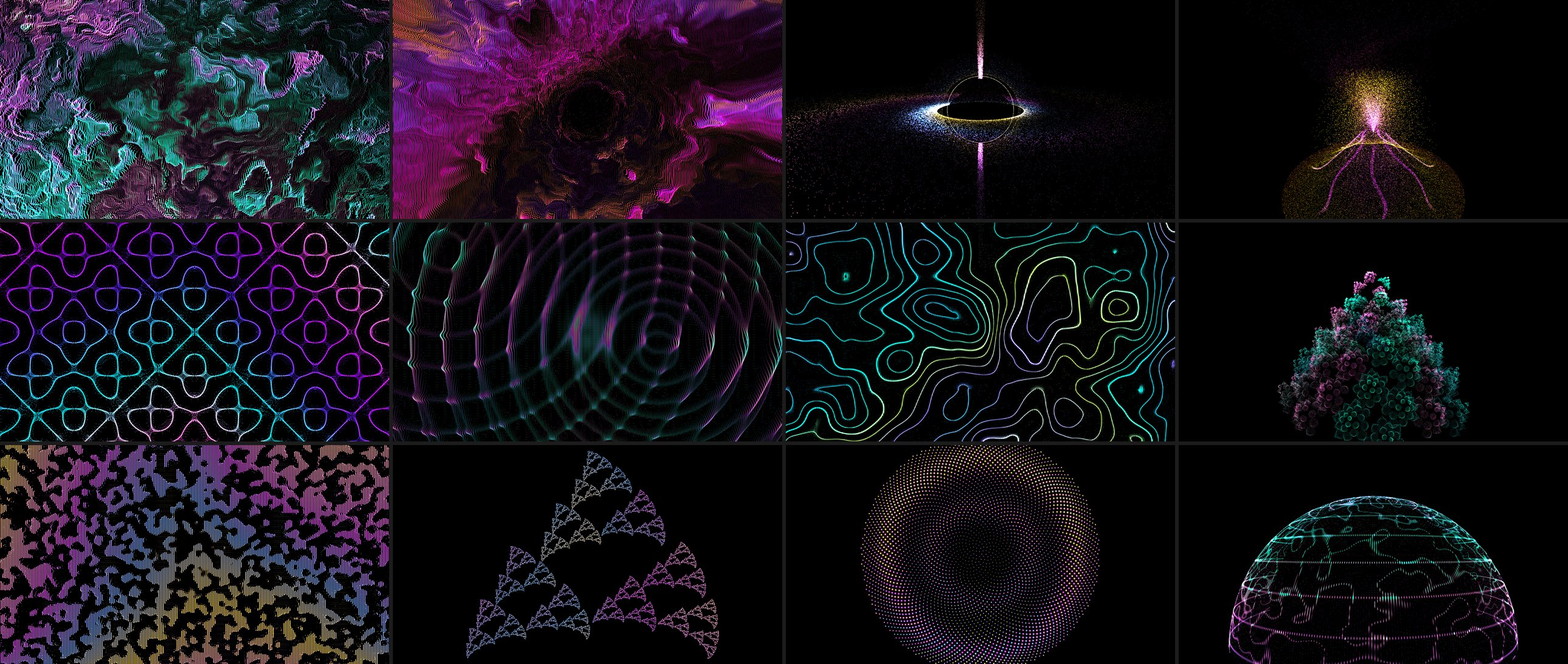
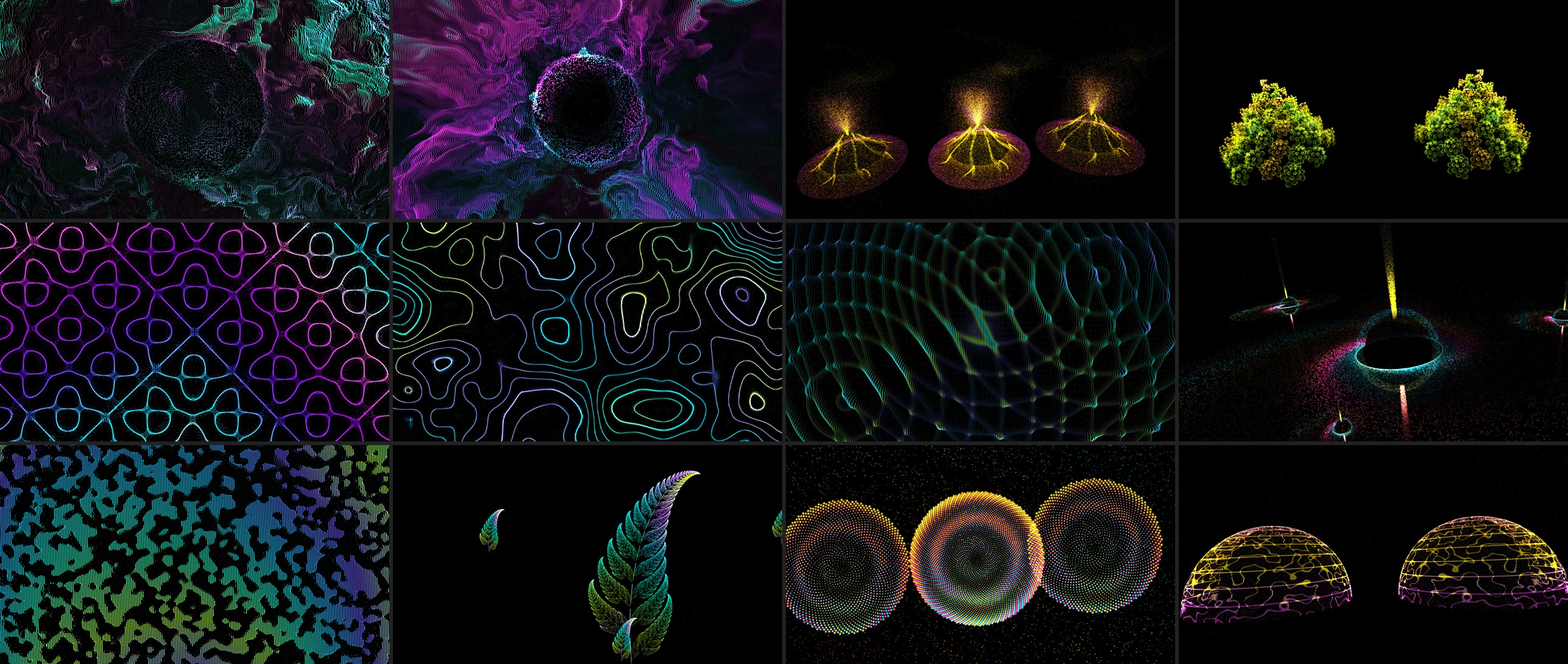
README: new scene stills and text for the dancing swarms
Re-shoots the twelve scenes on the current build: the dim backdrop and
copies of each form (orbit, troupe, mirror) now show, and rows follow
the current pools. The text adds the groove, build and burst, the
backdrop and copies, and fixes the drop rule, which still said a drop
cuts to a peak scene.

diff --git a/README.md b/README.md
@@ -2,19 +2,19 @@
 
 Automatic, music-reactive visuals for home DJ sessions. rekordbox plays through a Pioneer DDJ-FLX4. A copy of the master mix reaches a browser engine through BlackHole, and the engine drives fullscreen visuals on a 1080p projector. Nobody touches it during the set.
 
-<img src=".github/images/scenes.jpg" alt="Twelve stills from the wall, four by three, each a field of glowing dots: a dot liquid, a plasma tunnel, a black hole with jets, a volcano; a Chladni plate, interference ripples, a contour map, a romanesco; Turing coral, a fern-like Sierpinski fractal, a golden-angle sunflower and a dome of squiggly cells">
+<img src=".github/images/scenes.jpg" alt="Twelve stills from the wall, four by three, each a field of glowing dots: a dot liquid and a plasma tunnel each around a hollow sphere, three volcanoes in a line, a romanesco and its mirror image; a Chladni plate, a contour map, interference ripples, a black hole with small copies circling it; Turing coral, a fern with small copies circling it, three golden-angle sunflowers in a line and a dome of squiggly cells beside its mirror image">
 
-*Twelve of the particle-swarm scenes, rendered straight from the scene code on a simulated kick: peak (top row), main (middle), breakdowns and interludes (bottom).*
+*Twelve of the particle-swarm scenes, rendered straight from the scene code on a simulated kick: peak (top row), main and dark (middle), breakdowns and interludes (bottom). Where a form leaves the screen part-empty, it brings copies: circling it, in a dance line, or mirrored.*
 
-**Status:** V1 is done (2026-10-03). It passed a 3.5-hour house-party set with no crash, no frame gaps and no thermal throttling. Since then every scene has become an original particle swarm (the Butterchurn presets went on 2026-10-09), and scenes are grouped into pools for each moment of a set (2026-10-10). Next comes a live set on this build, then V1.1: recording a set and rendering it to video afterwards.
+**Status:** V1 is done (2026-10-03). It passed a 3.5-hour house-party set with no crash, no frame gaps and no thermal throttling. Since then every scene has become an original particle swarm (the Butterchurn presets went on 2026-10-09), and scenes are grouped into pools for each moment of a set (2026-10-10). Since 2026-11-12 the swarms dance: they groove to the beat, tighten through a build and burst on the drop. Next comes a live set on this build, then V1.1: recording a set and rendering it to video afterwards.
 
 ## How it works
 
 - **The DJ setup is never touched.** rekordbox's PC MASTER OUT sends a copy of the master output to BlackHole, a virtual audio device. The engine listens only to that copy. Master output, headphone cue and the controller behave exactly as they would without dj-vj.
 - **The engine** runs in Chrome. It analyses the audio every frame (spectrum, kick, tempo, loudness) and sorts the music into **main**, **dark** (a played tempo held at 136 BPM or more — the harder, faster later part of a set) and **peak**. It also flags short events: **breakdown**, **drop**, **ambient interlude** and **silence**.
-- **The director** picks a scene to suit what it hears, and decides when to switch. Each moment — main, dark, peak, breakdown, ambient interlude and silence — has its own **pool** of scenes, listed in one file (`engine/src/scenes/pools.ts`) and chosen by hand on the curation page. A drop cuts hard to a peak scene: the one shown before its breakdown, if there was one. A change from one particle swarm to another morphs the dots from one shape into the next.
+- **The director** picks a scene to suit what it hears, and decides when to switch. Each moment — main, dark, peak, breakdown, ambient interlude and silence — has its own **pool** of scenes, listed in one file (`engine/src/scenes/pools.ts`) and chosen by hand on the curation page. A breakdown keeps its scene: the swarm calms, tightens and brightens as the build rises, then bursts on the drop. Only a breakdown that lasts 30 seconds brings a scene from the breakdown pool, and its drop cuts straight back to the music's own pool. A change from one particle swarm to another morphs the dots from one shape into the next.
 - **The compositor** draws the scene, steps the render size down if frames run slow, and runs the **flash limiter**. No scene is trusted to limit its own flashing.
-- **Scenes are code.** Every scene is original, and every one is a particle swarm — glowing dots that flow between shapes, so any scene can morph into the next: cells, curves, rings, lasers, shards, a dot liquid, halftone fields such as Turing coral, a Chladni plate and a golden-angle sunflower, fractals and living forms such as a fern, a romanesco, a dividing cell and jellyfish, a black hole, a Lorenz attractor, and more, including nine that reinterpret the [Butterchurn](https://github.com/jberg/butterchurn) (MilkDrop) presets the project used until 2026-10-09. Scenes are deterministic: time comes from the session clock and randomness from a seed.
+- **Scenes are code.** Every scene is original, and every one is a particle swarm — glowing dots that flow between shapes, so any scene can morph into the next: cells, curves, rings, lasers, shards, a dot liquid, halftone fields such as Turing coral, a Chladni plate and a golden-angle sunflower, fractals and living forms such as a fern, a romanesco, a dividing cell and jellyfish, a black hole, a Lorenz attractor, and more, including nine that reinterpret the [Butterchurn](https://github.com/jberg/butterchurn) (MilkDrop) presets the project used until 2026-10-09. Each swarm grooves to the beat, harder as the energy rises. Unless its form already fills the screen, it also gets a dim backdrop of drifting dots and copies of itself: orbiting, in a dance line or mirrored, a different arrangement each time it shows. Scenes are deterministic: time comes from the session clock and randomness from a seed.
 
 The full design is in [`docs/design.md`](docs/design.md): requirements, architecture, the character model, director rules and failure handling. Measured results are in [`docs/spike-findings.md`](docs/spike-findings.md).
 
